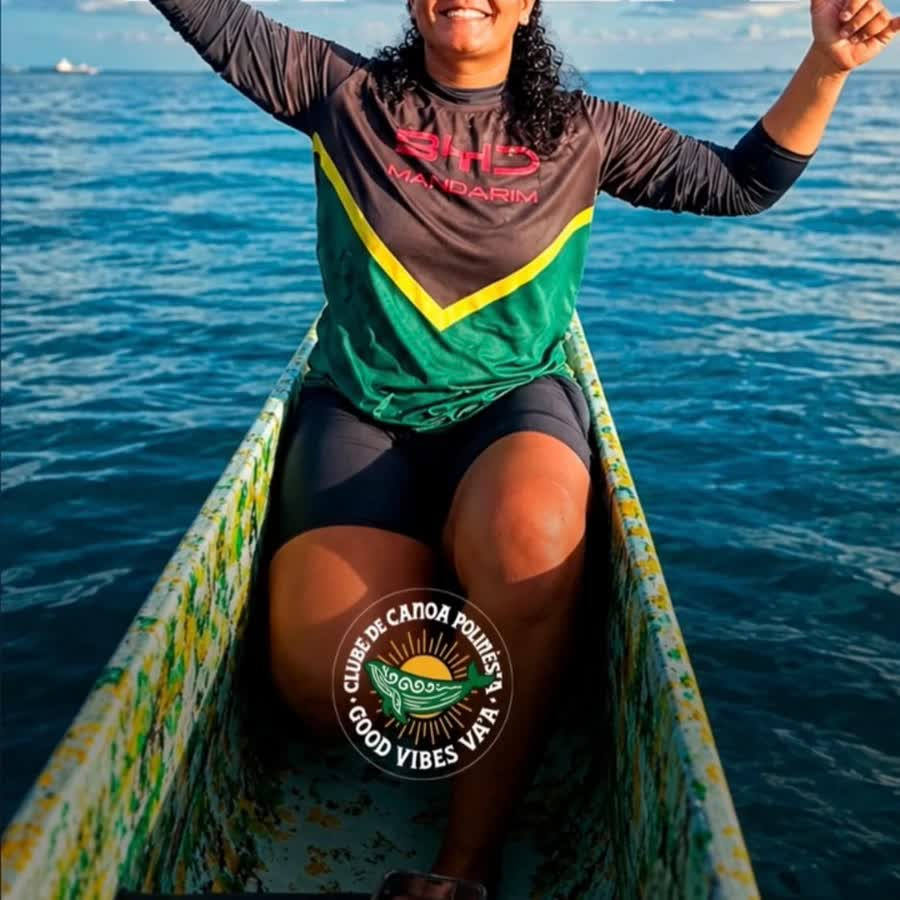
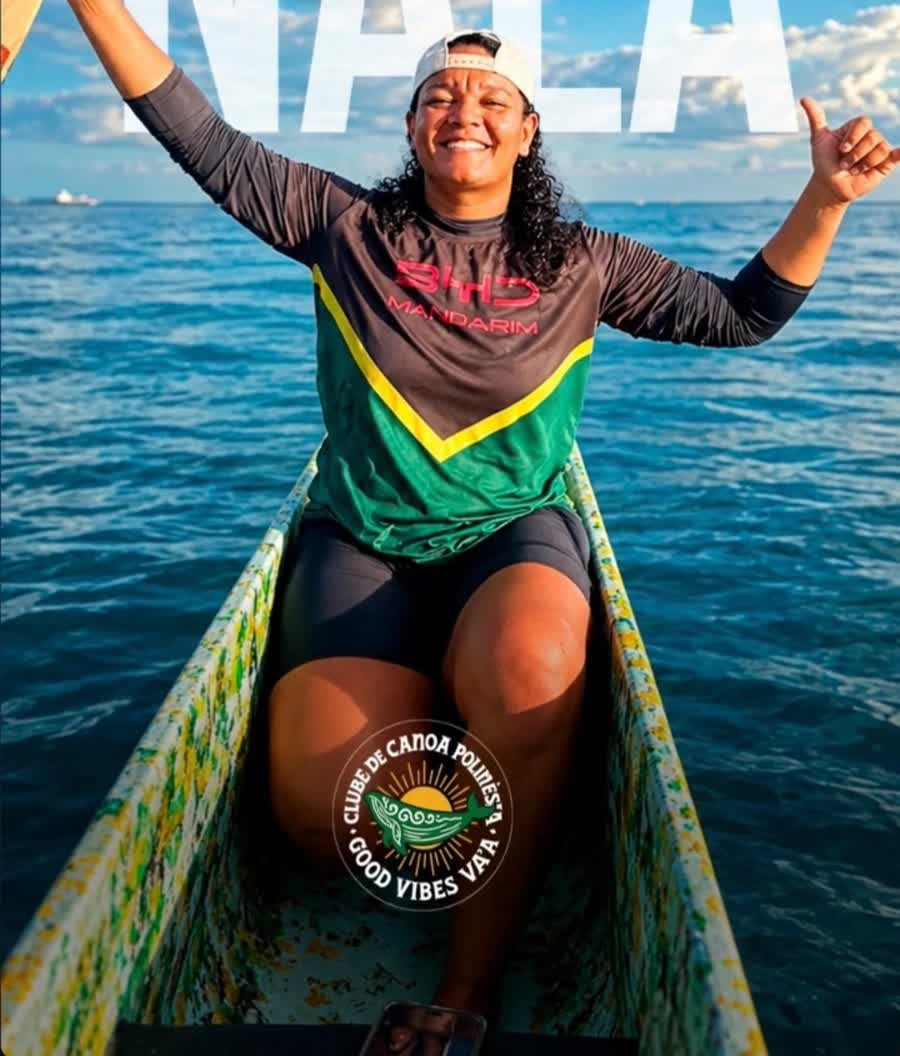
Ajusta três fotos: comunidade-canoa, e enquadramento dos capitães
- Troca o 4º quadro da faixa de comunidade (era a colagem) pela foto
  da equipe remando (comunidade-canoa.jpg, otimizada ~192KB, largura
  nativa 1206px, qualidade ~80). Alt text dedicado em PT/EN.
- Recorta novamente captain-jesse.jpg e captain-nala.jpg com folga
  vertical, e introduz var(--focus) + object-position por imagem
  (seletor por src, sem alterar marcação) para corrigir o
  enquadramento sem afetar as demais fotos:
  - Jesse: rosto centralizado (--focus: center 10%)
  - Nala: rosto inteiro + braços levantados (--focus: center top)
  - Canoa: barco e remadores visíveis (--focus: center 60%)

Validado com build.py em PT e EN, e screenshots da seção "O clube"
em 390px e 1440px.

diff --git a/dist/en/index.html b/dist/en/index.html
@@ -157,7 +157,7 @@
         </div>
       </div>
     </div>
-    <div class="strip" aria-label="A community that meets at sea."><figure class="media" data-slot="Official photo: crew celebrating after training · comunidade-1.jpg"><img src="../assets/img/comunidade-1.jpg" alt="Good Vibes Va&#x27;a community" width="900" height="900" loading="lazy" decoding="async" onerror="this.remove()"></figure><figure class="media" data-slot="Official photo: Pink October · comunidade-2.jpg"><img src="../assets/img/comunidade-2.jpg" alt="Good Vibes Va&#x27;a community" width="900" height="900" loading="lazy" decoding="async" onerror="this.remove()"></figure><figure class="media" data-slot="Official photo: club&#x27;s first anniversary · comunidade-3.jpg"><img src="../assets/img/comunidade-3.jpg" alt="Good Vibes Va&#x27;a community" width="900" height="900" loading="lazy" decoding="async" onerror="this.remove()"></figure><figure class="media" data-slot="Official photo: paddlers in the canoe · comunidade-4.jpg"><img src="../assets/img/comunidade-4.jpg" alt="Good Vibes Va&#x27;a community" width="900" height="900" loading="lazy" decoding="async" onerror="this.remove()"></figure></div>
+    <div class="strip" aria-label="A community that meets at sea."><figure class="media" data-slot="Official photo: crew celebrating after training · comunidade-1.jpg"><img src="../assets/img/comunidade-1.jpg" alt="Good Vibes Va&#x27;a community" width="900" height="900" loading="lazy" decoding="async" onerror="this.remove()"></figure><figure class="media" data-slot="Official photo: Pink October · comunidade-2.jpg"><img src="../assets/img/comunidade-2.jpg" alt="Good Vibes Va&#x27;a community" width="900" height="900" loading="lazy" decoding="async" onerror="this.remove()"></figure><figure class="media" data-slot="Official photo: club&#x27;s first anniversary · comunidade-3.jpg"><img src="../assets/img/comunidade-3.jpg" alt="Good Vibes Va&#x27;a community" width="900" height="900" loading="lazy" decoding="async" onerror="this.remove()"></figure><figure class="media" data-slot="Official photo: paddlers in the canoe · comunidade-canoa.jpg"><img src="../assets/img/comunidade-canoa.jpg" alt="Crew paddling an outrigger canoe at sea" width="900" height="900" loading="lazy" decoding="async" onerror="this.remove()"></figure></div>
     <!-- Depoimentos escritos: publicar aqui apenas depoimentos reais, com autorização. -->
     <div class="testimonials"></div>
     <div class="community-foot">

diff --git a/dist/index.html b/dist/index.html
@@ -157,7 +157,7 @@
         </div>
       </div>
     </div>
-    <div class="strip" aria-label="Uma comunidade que se encontra no mar."><figure class="media" data-slot="Foto oficial: equipe celebrando após o treino · comunidade-1.jpg"><img src="assets/img/comunidade-1.jpg" alt="Comunidade Good Vibes Va&#x27;a" width="900" height="900" loading="lazy" decoding="async" onerror="this.remove()"></figure><figure class="media" data-slot="Foto oficial: Outubro Rosa · comunidade-2.jpg"><img src="assets/img/comunidade-2.jpg" alt="Comunidade Good Vibes Va&#x27;a" width="900" height="900" loading="lazy" decoding="async" onerror="this.remove()"></figure><figure class="media" data-slot="Foto oficial: aniversário de 1 ano do clube · comunidade-3.jpg"><img src="assets/img/comunidade-3.jpg" alt="Comunidade Good Vibes Va&#x27;a" width="900" height="900" loading="lazy" decoding="async" onerror="this.remove()"></figure><figure class="media" data-slot="Foto oficial: remadores na canoa · comunidade-4.jpg"><img src="assets/img/comunidade-4.jpg" alt="Comunidade Good Vibes Va&#x27;a" width="900" height="900" loading="lazy" decoding="async" onerror="this.remove()"></figure></div>
+    <div class="strip" aria-label="Uma comunidade que se encontra no mar."><figure class="media" data-slot="Foto oficial: equipe celebrando após o treino · comunidade-1.jpg"><img src="assets/img/comunidade-1.jpg" alt="Comunidade Good Vibes Va&#x27;a" width="900" height="900" loading="lazy" decoding="async" onerror="this.remove()"></figure><figure class="media" data-slot="Foto oficial: Outubro Rosa · comunidade-2.jpg"><img src="assets/img/comunidade-2.jpg" alt="Comunidade Good Vibes Va&#x27;a" width="900" height="900" loading="lazy" decoding="async" onerror="this.remove()"></figure><figure class="media" data-slot="Foto oficial: aniversário de 1 ano do clube · comunidade-3.jpg"><img src="assets/img/comunidade-3.jpg" alt="Comunidade Good Vibes Va&#x27;a" width="900" height="900" loading="lazy" decoding="async" onerror="this.remove()"></figure><figure class="media" data-slot="Foto oficial: remadores na canoa · comunidade-canoa.jpg"><img src="assets/img/comunidade-canoa.jpg" alt="Equipe remando em canoa havaiana no mar" width="900" height="900" loading="lazy" decoding="async" onerror="this.remove()"></figure></div>
     <!-- Depoimentos escritos: publicar aqui apenas depoimentos reais, com autorização. -->
     <div class="testimonials"></div>
     <div class="community-foot">

diff --git a/dist/assets/css/site.css b/dist/assets/css/site.css
@@ -172,7 +172,12 @@ button, input, select, textarea { font: inherit; color: inherit; }
     radial-gradient(rgba(244,240,230,.05) 1px, transparent 1px);
   background-size: 6px 6px;
 }
-.media img { width: 100%; height: 100%; object-fit: cover; position: relative; z-index: 1; }
+.media img { width: 100%; height: 100%; object-fit: cover; object-position: var(--focus, center); position: relative; z-index: 1; }
+
+/* Enquadramento por imagem — ajusta o ponto focal sem recortar o arquivo nem afetar as demais fotos. */
+.media img[src$="captain-jesse.jpg"] { --focus: center 10%; }
+.media img[src$="captain-nala.jpg"] { --focus: center top; }
+.media img[src$="comunidade-canoa.jpg"] { --focus: center 60%; }
 .media[data-slot]::after {
   content: attr(data-slot);
   position: absolute; left: 14px; bottom: 12px; right: 14px; z-index: 0;

diff --git a/src/assets/css/site.css b/src/assets/css/site.css
@@ -172,7 +172,12 @@ button, input, select, textarea { font: inherit; color: inherit; }
     radial-gradient(rgba(244,240,230,.05) 1px, transparent 1px);
   background-size: 6px 6px;
 }
-.media img { width: 100%; height: 100%; object-fit: cover; position: relative; z-index: 1; }
+.media img { width: 100%; height: 100%; object-fit: cover; object-position: var(--focus, center); position: relative; z-index: 1; }
+
+/* Enquadramento por imagem — ajusta o ponto focal sem recortar o arquivo nem afetar as demais fotos. */
+.media img[src$="captain-jesse.jpg"] { --focus: center 10%; }
+.media img[src$="captain-nala.jpg"] { --focus: center top; }
+.media img[src$="comunidade-canoa.jpg"] { --focus: center 60%; }
 .media[data-slot]::after {
   content: attr(data-slot);
   position: absolute; left: 14px; bottom: 12px; right: 14px; z-index: 0;

diff --git a/build.py b/build.py
@@ -137,7 +137,8 @@ CONTENT = {
 
         "community_title": "Uma comunidade que se encontra no mar.",
         "community_lead": "Treinos ao amanhecer, ações como o Outubro Rosa e um ano de histórias contadas por quem rema com a gente.",
-        "community_slots": ["Foto oficial: equipe celebrando após o treino · comunidade-1.jpg", "Foto oficial: Outubro Rosa · comunidade-2.jpg", "Foto oficial: aniversário de 1 ano do clube · comunidade-3.jpg", "Foto oficial: remadores na canoa · comunidade-4.jpg", "Foto oficial: detalhe de remo e mar · comunidade-5.jpg"],
+        "community_slots": ["Foto oficial: equipe celebrando após o treino · comunidade-1.jpg", "Foto oficial: Outubro Rosa · comunidade-2.jpg", "Foto oficial: aniversário de 1 ano do clube · comunidade-3.jpg", "Foto oficial: remadores na canoa · comunidade-canoa.jpg", "Foto oficial: detalhe de remo e mar · comunidade-5.jpg"],
+        "community_canoa_alt": "Equipe remando em canoa havaiana no mar",
         "community_alt": "Comunidade Good Vibes Va'a",
         "community_cta": "Ver depoimentos no Instagram",
         "community_note": "Depoimentos em vídeo de quem já remou com o clube estão no nosso Instagram.",
@@ -327,7 +328,8 @@ CONTENT = {
 
         "community_title": "A community that meets at sea.",
         "community_lead": "Sunrise training, campaigns like Pink October and a year of stories told by the people who paddle with us.",
-        "community_slots": ["Official photo: crew celebrating after training · comunidade-1.jpg", "Official photo: Pink October · comunidade-2.jpg", "Official photo: club's first anniversary · comunidade-3.jpg", "Official photo: paddlers in the canoe · comunidade-4.jpg", "Official photo: paddle and sea detail · comunidade-5.jpg"],
+        "community_slots": ["Official photo: crew celebrating after training · comunidade-1.jpg", "Official photo: Pink October · comunidade-2.jpg", "Official photo: club's first anniversary · comunidade-3.jpg", "Official photo: paddlers in the canoe · comunidade-canoa.jpg", "Official photo: paddle and sea detail · comunidade-5.jpg"],
+        "community_canoa_alt": "Crew paddling an outrigger canoe at sea",
         "community_alt": "Good Vibes Va'a community",
         "community_cta": "Watch testimonials on Instagram",
         "community_note": "Video testimonials from people who have paddled with the club are on our Instagram.",
@@ -718,7 +720,12 @@ def render(code):
             <a class="link" href="https://www.instagram.com/{cap['handle']}/" target="_blank" rel="noopener">@{e(cap['handle'])}</a></figcaption>
         </figure>"""
     tiles = "".join(
-        media(f"comunidade-{i+1}.jpg", s, c["community_alt"], prefix, w=900, h=900)
+        media(
+            "comunidade-canoa.jpg" if i == 3 else f"comunidade-{i+1}.jpg",
+            s,
+            c["community_canoa_alt"] if i == 3 else c["community_alt"],
+            prefix, w=900, h=900,
+        )
         for i, s in enumerate(c["community_slots"][:4])
     )
     club = f"""
